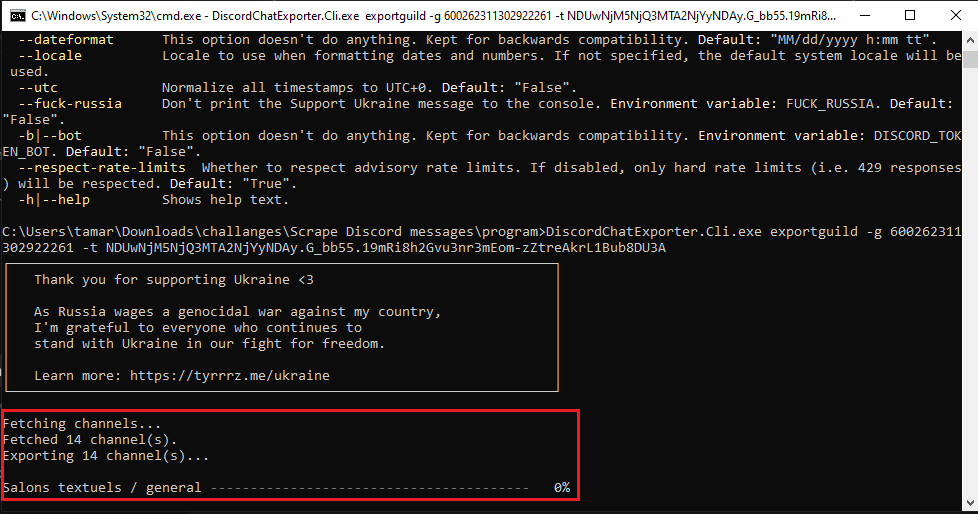
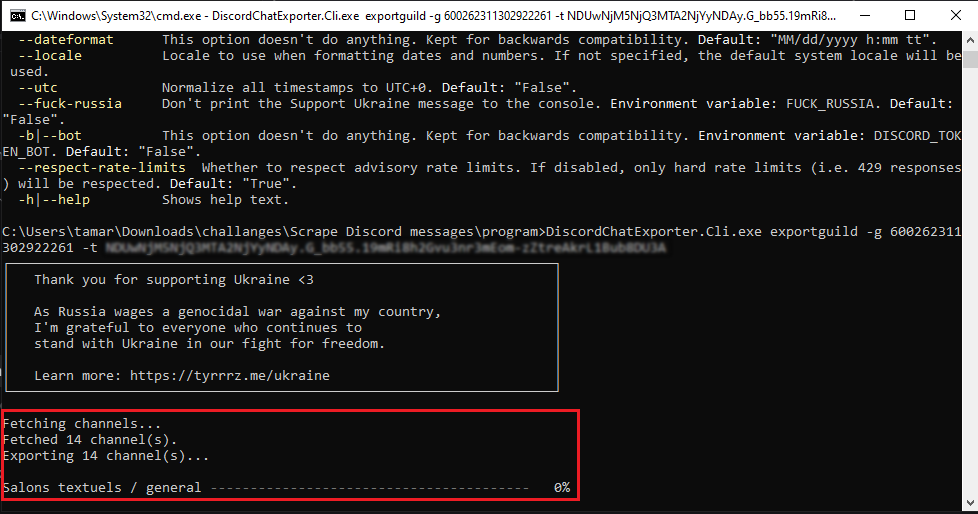
update

Changed region(s): [[0.092, 0.4669, 0.7055, 0.4981]]

diff --git a/_posts/Scraping/2025-05-24-scrapingdiscordmessages.md b/_posts/Scraping/2025-05-24-scrapingdiscordmessages.md
@@ -45,7 +45,7 @@ you can export the data using different formats like `.txt`, `.json`, etc using 
 So the command we get is `DiscordChatExporter.Cli exportguild -g 600262311302922261 -t <mytoken>`.
 
 
-Let's run our command:
+Let's run our command (token blurred for obvious reasons 😅):
 
  ![Running our command](/assets/images/scraping/discord/scraping-cli.png)
 
